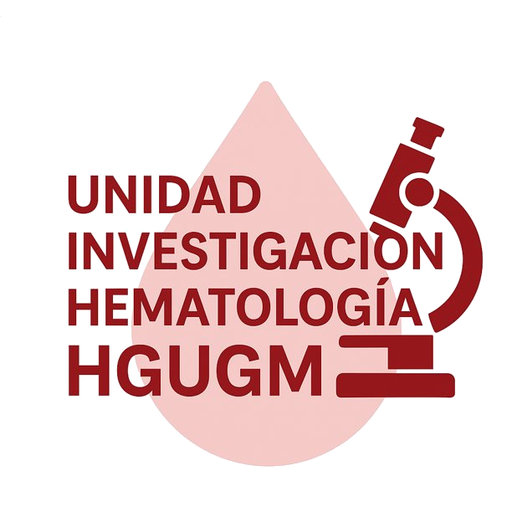
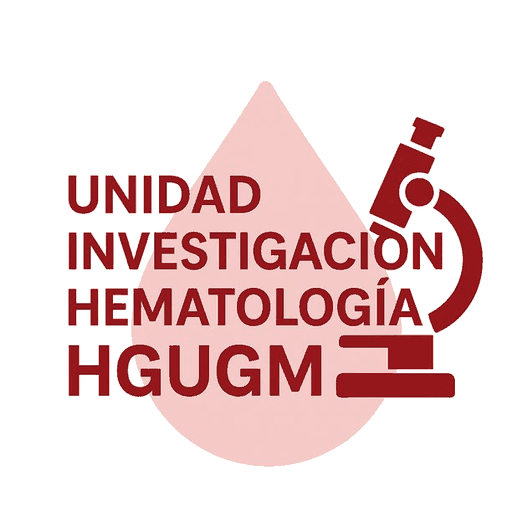
Optimización de rendimiento en móvil: respuesta táctil instantánea e iconos más ligeros
Sin cambios de diseño ni de funcionalidad — solo eficiencia.

- Causa real del "no responde al tocar una celda": al editar una celda,
  activar/desactivar INICIO·FC·REUNIÓN, aprobar/revocar una excepción o
  aprobar/rechazar una solicitud, la app esperaba a que terminara el
  guardado en Firestore (un viaje de red completo) antes de repintar la
  celda con el nuevo valor. En móvil, con más latencia, eso se notaba
  como que la celda tardaba en reaccionar al toque. Ahora se repinta al
  instante con el estado local (que ya está actualizado) y el guardado
  en Firestore se dispara en segundo plano sin bloquear la pantalla; los
  avisos de "Guardado ✓" / "Error al guardar" siguen apareciendo igual
  que antes, solo que ya no retrasan lo que se ve.
- Revisado explícitamente y confirmado que YA estaba bien (no hacía
  falta tocarlo): la generación automática solo se ejecuta al pulsar
  "Generar planificación automática" (nunca al abrir la app, cambiar de
  mes, hacer scroll, tocar una celda o cambiar de pestaña); cambiar de
  pestaña de equipo no recarga ni recalcula nada, solo re-pinta con los
  datos ya cargados en memoria.
- Iconos (favicon, PWA, apple-touch-icon, logo de cabecera/login)
  recomprimidos con paleta reducida: de ~264 KB a ~54 KB en total (p.ej.
  icon-512.png de 131 KB a 36 KB) sin pérdida de calidad visible, y el
  logo de cabecera generado al tamaño real en que se muestra en vez de
  uno sobredimensionado.
[…]

diff --git a/index.html b/index.html
@@ -1786,14 +1786,14 @@
             val = val.trim();
             state.eventNames[day] = state.eventNames[day] || {};
             if(val){ state.eventNames[day][evKey] = val; } else { delete state.eventNames[day][evKey]; }
-            await saveTrialNames();
+            saveTrialNames();
           }
           list.push(evKey);
         }
         if(list.length){ state.monthEvents[day] = list; } else { delete state.monthEvents[day]; }
-        await saveMonthEvents();
         state.currentAlerts = computeAlerts(state.team);
         renderTable(); renderAlerts(); renderInfoLine(); renderEventsBanner();
+        saveMonthEvents();
       });
     });
   }
@@ -1827,11 +1827,13 @@
           var flagNewHire = val==='T' && isInNewHireWindow(team(), person, state.year, state.month, parseInt(day));
           sd.schedule[person] = sd.schedule[person] || {};
           if(val===''){ delete sd.schedule[person][day]; } else { sd.schedule[person][day] = val; }
-          saveSched(state.team).then(function(){
-            state.currentAlerts = computeAlerts(state.team);
-            renderTable(); renderAlerts();
-            if(flagNewHire){ showToast(person+' teletrabaja durante su periodo de nueva incorporación — revisa la incidencia en el panel.', true); }
-          });
+          // Repinta ya mismo con el estado local (ya actualizado) en vez de esperar a que
+          // vuelva la confirmación de guardado por red — en móvil, con más latencia, esa
+          // espera se notaba como que la celda tardaba en responder al toque.
+          state.currentAlerts = computeAlerts(state.team);
+          renderTable(); renderAlerts();
+          var savePromise = saveSched(state.team);
+          if(flagNewHire){ savePromise.then(function(){ showToast(person+' teletrabaja durante su periodo de nueva incorporación — revisa la incidencia en el panel.', true); }); }
         }
         function cancel(){ if(committed) return; committed = true; td.innerHTML = originalHTML; }
 
@@ -1870,25 +1872,25 @@
     panel.innerHTML = html;
 
     panel.querySelectorAll('.alert-btn.approve').forEach(function(btn){
-      btn.onclick = async function(){
+      btn.onclick = function(){
         var id = decAttr(btn.getAttribute('data-id'));
         var detail = decAttr(btn.getAttribute('data-detail'));
         var sd = sched();
         sd.exceptions = sd.exceptions || [];
         sd.exceptions.push({id:id, detail:detail, approvedBy:'Ana', approvedAt:new Date().toISOString()});
-        await saveSched(state.team);
         state.currentAlerts = computeAlerts(state.team);
         renderTable(); renderAlerts();
+        saveSched(state.team);
       };
     });
     panel.querySelectorAll('.alert-btn.revoke').forEach(function(btn){
-      btn.onclick = async function(){
+      btn.onclick = function(){
         var id = decAttr(btn.getAttribute('data-id'));
         var sd = sched();
         sd.exceptions = (sd.exceptions||[]).filter(function(e){return e.id!==id;});
-        await saveSched(state.team);
         state.currentAlerts = computeAlerts(state.team);
         renderTable(); renderAlerts();
+        saveSched(state.team);
       };
     });
   }
@@ -1993,20 +1995,20 @@
           if(req.code===''){ delete sd2.schedule[req.person][req.day]; } else { sd2.schedule[req.person][req.day] = req.code; }
         }
         req.status = 'approved'; req.resolvedAt = new Date().toISOString();
-        await saveSched(state.team);
         state.currentAlerts = computeAlerts(state.team);
         renderTable(); renderAlerts(); renderRequests();
+        saveSched(state.team);
       };
     });
     panel.querySelectorAll('.alert-btn.reject').forEach(function(btn){
-      btn.onclick = async function(){
+      btn.onclick = function(){
         var id = decAttr(btn.getAttribute('data-id'));
         var sd2 = sched();
         var req = (sd2.requests||[]).filter(function(r){return r.id===id;})[0];
         if(!req) return;
         req.status = 'rejected'; req.resolvedAt = new Date().toISOString();
-        await saveSched(state.team);
         renderRequests();
+        saveSched(state.team);
       };
     });
   }
